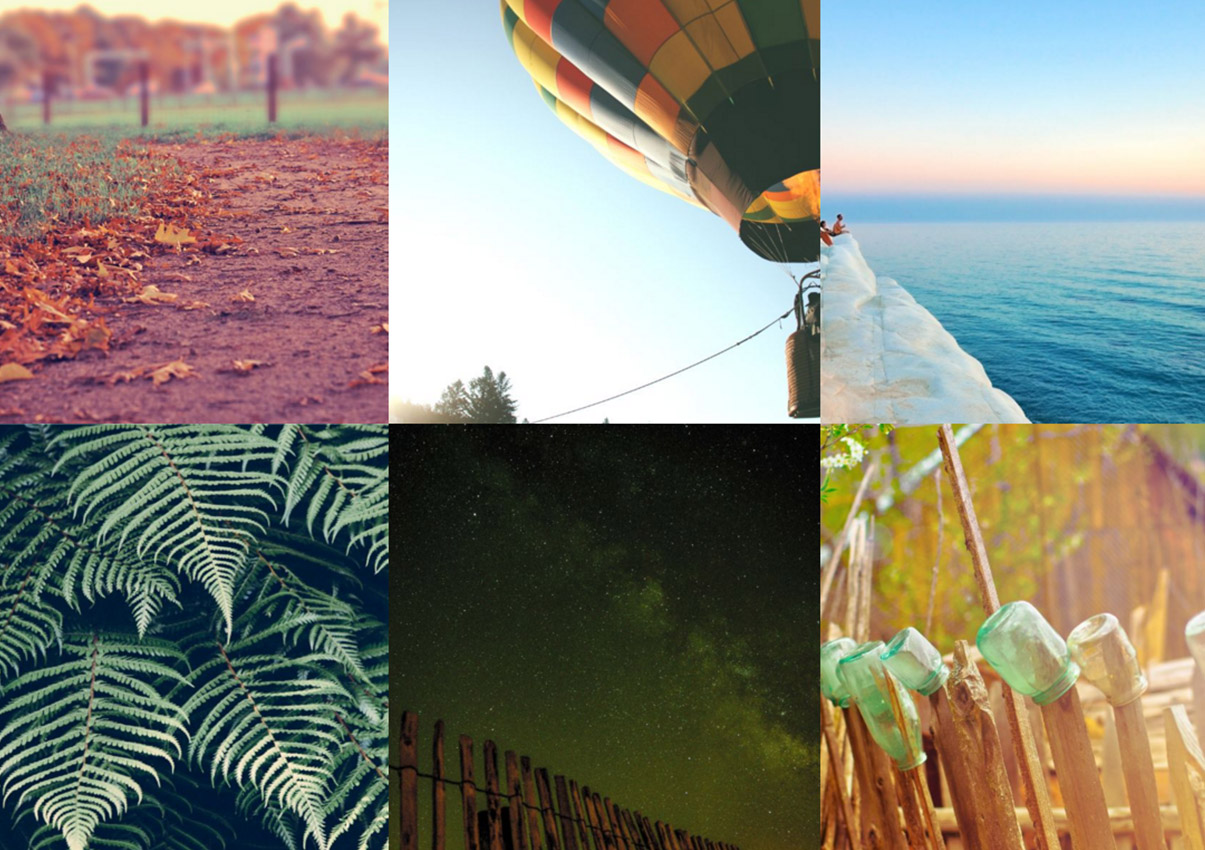
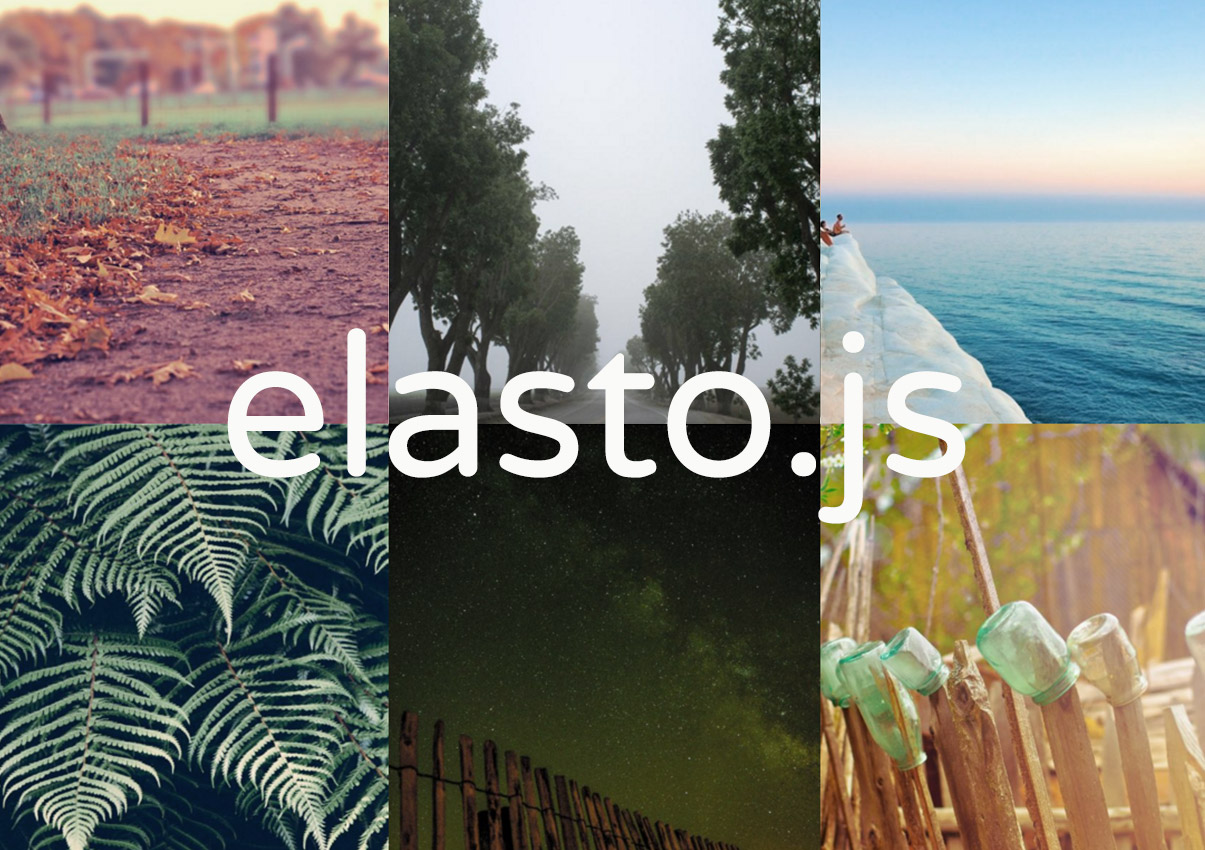
Added Game On to work. Changed grid layout to only include squares.

Changed region(s): [[0.1842, 0.0, 0.7983, 0.6424]]

diff --git a/css/main.min.css b/css/main.min.css
@@ -1,5 +1,5 @@
 h1,h2,h3,h4,h5,h6{font-weight:normal}a{color:inherit;text-decoration:none;font-weight:bold;cursor:pointer}a:hover,a:focus{text-decoration:underline}.animate{-webkit-animation-duration:1s;animation-duration:1s;-webkit-animation-fill-mode:both;animation-fill-mode:both;opacity:0}@-webkit-keyframes fadeIn{from{opacity:0}to{opacity:1}}@keyframes fadeIn{from{opacity:0}to{opacity:1}}.fadeIn{-webkit-animation-name:fadeIn;animation-name:fadeIn}@-webkit-keyframes fadeInUp{from{opacity:0;-webkit-transform:translate3d(0, 50%, 0);transform:translate3d(0, 50%, 0)}to{opacity:1;-webkit-transform:none;transform:none}}@keyframes fadeInUp{from{opacity:0;-webkit-transform:translate3d(0, 50%, 0);transform:translate3d(0, 50%, 0)}to{opacity:1;-webkit-transform:none;transform:none}}.fadeInUp{-webkit-animation-name:fadeInUp;animation-name:fadeInUp}@-webkit-keyframes fadeInUpSmall{from{opacity:0;-webkit-transform:translate3d(0, 20%, 0);transform:translate3d(0, 20%, 0)}to{opacity:1;-webkit-transform:none;transform:none}}@keyframes fadeInUpSmall{from{opacity:0;-webkit-transform:translate3d(0, 20%, 0);transform:translate3d(0, 20%, 0)}to{opacity:1;-webkit-transform:none;transform:none}}.fadeInUpSmall{-webkit-animation-name:fadeInUpSmall;animation-name:fadeInUpSmall}@-webkit-keyframes backgroundFade{0%,
 	100%{background-position:0 50%}50%{background-position:100% 50%}}@-moz-keyframes backgroundFade{0%,
 	100%{background-position:0 50%}50%{background-position:100% 50%}}@keyframes backgroundFade{0%,
-	100%{background-position:0 50%}50%{background-position:100% 50%}}@-webkit-keyframes rotateplane{0%{-webkit-transform:perspective(120px)}50%{-webkit-transform:perspective(120px) rotateY(180deg)}100%{-webkit-transform:perspective(120px) rotateY(180deg) rotateX(180deg)}}@keyframes rotateplane{0%{transform:perspective(120px) rotateX(0deg) rotateY(0deg);-webkit-transform:perspective(120px) rotateX(0deg) rotateY(0deg)}50%{transform:perspective(120px) rotateX(-180.1deg) rotateY(0deg);-webkit-transform:perspective(120px) rotateX(-180.1deg) rotateY(0deg)}100%{transform:perspective(120px) rotateX(-180deg) rotateY(-179.9deg);-webkit-transform:perspective(120px) rotateX(-180deg) rotateY(-179.9deg)}}.grid:after{content:'';display:block;clear:both}.grid-sizer,.grid-item{width:33.333%}@media screen and (max-width: 629px){.grid-sizer,.grid-item{width:100%}}@media screen and (min-width: 630px) and (max-width: 1129px){.grid-sizer,.grid-item{width:50%}}.grid-item{float:left}.grid-item img{display:block;width:100%}.grid-item .grid-item-content{opacity:0}.grid-item .grid-item-content .overlay{z-index:10;position:absolute;bottom:0;width:100%;height:100%;margin:0;padding:0;background-color:rgba(39,39,39,0.9);color:#fff;-webkit-font-smoothing:antialiased;opacity:0;-webkit-transition:opacity 0.25s ease-out;-moz-transition:opacity 0.25s ease-out;-ms-transition:opacity 0.25s ease-out;-o-transition:opacity 0.25s ease-out;transition:opacity 0.25s ease-out}.grid-item .grid-item-content .overlay .title{position:relative;top:calc(50% - 45px);text-align:center;font-size:18px}.grid-item .grid-item-content .overlay .title:after{content:'';position:absolute;left:0;right:0;bottom:-25px;margin:0 auto;height:2px;width:1%;background-color:#fff;-webkit-transition:width 0.3s ease-out;-moz-transition:width 0.3s ease-out;-ms-transition:width 0.3s ease-out;-o-transition:width 0.3s ease-out;transition:width 0.3s ease-out}.grid-item .grid-item-content .overlay .description{position:relative;top:50%;text-align:center;font-size:14.04px}.grid-item:hover{cursor:pointer}.grid-item:hover .overlay{opacity:1}.grid-item:hover .overlay .title:after{width:50%}.grid-item.big{width:66.666%}@media screen and (max-width: 629px){.grid-item.big{width:100%}}@media screen and (min-width: 630px) and (max-width: 1129px){.grid-item.big{width:50%}}.grid-item.red .overlay{background-color:rgba(174,68,66,0.9)}.grid-item.purple .overlay{background-color:rgba(118,58,82,0.9)}.grid-item.blue .overlay{background-color:rgba(93,131,134,0.9)}/*! normalize-scss | MIT/GPLv2 License | bit.ly/normalize-scss */html{font-size:112.5%;line-height:1.22222em;font-family:"Varela Round",sans-serif;-ms-text-size-adjust:100%;-webkit-text-size-adjust:100%}body{margin:0}article,aside,details,figcaption,figure,footer,header,hgroup,main,menu,nav,section,summary{display:block}audio,canvas,progress,video{display:inline-block;*display:inline;*zoom:1;vertical-align:baseline}audio:not([controls]){display:none;height:0}[hidden]{display:none}template{display:none}a{background-color:transparent}a:active,a:hover{outline:0}abbr[title]{border-bottom:1px dotted}b,strong{font-weight:bold}dfn{font-style:italic}h1{font-size:3em;line-height:1.22222em;margin:.40741em 0}h2{font-size:2em;line-height:1.22222em;margin:.61111em 0}h3{font-size:1.33em;line-height:1.83793em;margin:.91896em 0}h4{font-size:1em;line-height:1.22222em;margin:1.22222em 0}h5{font-size:.78em;line-height:1.56695em;margin:1.56695em 0}h6{font-size:.67em;line-height:1.82421em;margin:1.82421em 0}mark{background:#ff0;color:#000}small{font-size:80%}sub,sup{font-size:75%;line-height:0;position:relative;vertical-align:baseline}sup{top:-0.5em}sub{bottom:-0.25em}img{border:0;-ms-interpolation-mode:bicubic}svg:not(:root){overflow:hidden}dl,menu,ol,ul{margin:1.22222em 0}ol ol,ol ul,ul ol,ul ul{margin:0}dd{margin:0 0 0 20px}menu,ol,ul{padding:0 0 0 20px}nav ul,nav ol{list-style:none;list-style-image:none}blockquote{margin:1.22222em 20px}figure{margin:1.22222em 20px}hr{-moz-box-sizing:content-box;box-sizing:content-box;height:0}p,pre{margin:1.22222em 0}pre{overflow:auto}code,kbd,pre,samp{font-family:monospace, monospace;_font-family:'courier new', monospace;font-size:1em}form{margin:0}button,input,optgroup,select,textarea{color:inherit;font:inherit;margin:0;*font-family:"Varela Round",sans-serif;*vertical-align:middle}button{overflow:visible}button,select{text-transform:none}button,html input[type="button"],input[type="reset"],input[type="submit"]{-webkit-appearance:button;cursor:pointer;*overflow:visible}button[disabled],html input[disabled]{cursor:default}button::-moz-focus-inner,input::-moz-focus-inner{border:0;padding:0}input{line-height:normal}input[type="checkbox"],input[type="radio"]{box-sizing:border-box;padding:0;*height:13px;*width:13px}input[type="number"]::-webkit-inner-spin-button,input[type="number"]::-webkit-outer-spin-button{height:auto}input[type="search"]{-webkit-appearance:textfield;-webkit-box-sizing:content-box;box-sizing:content-box}input[type="search"]::-webkit-search-cancel-button,input[type="search"]::-webkit-search-decoration{-webkit-appearance:none}fieldset{border:1px solid #c0c0c0;margin:0 2px;padding:0.35em 0.625em 0.75em}legend{border:0;padding:0;*margin-left:-7px}textarea{overflow:auto}optgroup{font-weight:bold}table{border-collapse:collapse;border-spacing:0}td,th{padding:0}body{color:#fff;-webkit-font-smoothing:antialiased;background-image:linear-gradient(115deg, #f99e54, #f26966, #dd5c58);background-size:200% 100%}body.show-modal{height:100%;overflow:hidden}.wrap{z-index:2;position:relative;margin-left:auto;margin-right:auto;max-width:1500px;width:calc(100% - 80px);padding:0 40px}@media screen and (max-width: 629px){.wrap{width:calc(100% - 40px);padding:0 20px}}.wrap.small{max-width:1100px}.wrap.full-width{max-width:100%;width:100%;padding:0}.flex{display:-webkit-box;display:-moz-box;display:-ms-flexbox;display:-webkit-flex;display:flex;-webkit-flex-direction:row;-moz-flex-direction:row;flex-direction:row;flex-wrap:wrap;-webkit-flex-wrap:wrap;-moz-flex-wrap:wrap;justify-content:space-around}.flex .flex-item{-webkit-flex:1 1 auto;-ms-flex:1 1 auto;flex:1 1 auto}.button{margin-right:5px;margin-bottom:10px;padding:10px;outline:0;border:2px solid #fff;background-color:transparent;color:#fff;font-size:14.04px;-webkit-font-smoothing:subpixel-antialiased;-webkit-transition:all 0.3s ease-out;-moz-transition:all 0.3s ease-out;-ms-transition:all 0.3s ease-out;-o-transition:all 0.3s ease-out;transition:all 0.3s ease-out}.button:hover{background-color:rgba(255,255,255,0.15)}.button.inactive{border-color:transparent}.text-bold{font-weight:bold}.text-center{text-align:center}#header{z-index:5;position:fixed;width:100%;padding:20px 0;font-size:14.04px;-webkit-font-smoothing:subpixel-antialiased;-webkit-transition:all 0.3s ease-in-out;-moz-transition:all 0.3s ease-in-out;-ms-transition:all 0.3s ease-in-out;-o-transition:all 0.3s ease-in-out;transition:all 0.3s ease-in-out}@media screen and (max-width: 629px){#header{background-color:rgba(255,255,255,0.9);color:#272727}}#header .logo{float:left}#header .logo a{text-decoration:none;font-weight:normal}#header .logo a .image{float:left;margin-top:-2px;margin-right:8px;height:24px;width:24px;background-image:url(../images/logo_white.png);background-repeat:no-repeat;background-size:100%;-webkit-transition:all 0.3s ease-out;-moz-transition:all 0.3s ease-out;-ms-transition:all 0.3s ease-out;-o-transition:all 0.3s ease-out;transition:all 0.3s ease-out}@media screen and (max-width: 629px){#header .logo a .image{background-image:url(../images/logo_black.png)}}@media screen and (max-width: 629px){#header .logo a .text{display:none}}#header .nav{float:right}#header .nav .nav-horizontal{padding:0;margin:0}@media screen and (max-width: 629px){#header .nav .nav-horizontal li:last-child{display:none}#header .nav .nav-horizontal li:nth-child(1) a.local:after{background-color:#dd6947}#header .nav .nav-horizontal li:nth-child(2) a.local:after{background-color:#ae4442}}#header .nav .nav-horizontal li{display:block;float:left;margin-left:20px}#header .nav .nav-horizontal li a.local{position:relative;text-decoration:none;font-weight:normal}#header .nav .nav-horizontal li a.local:after{content:'';position:absolute;left:0;right:0;bottom:-5px;margin:0 auto;height:2px;width:0%;background-color:#fff;-webkit-transition:width 0.15s ease-out;-moz-transition:width 0.15s ease-out;-ms-transition:width 0.15s ease-out;-o-transition:width 0.15s ease-out;transition:width 0.15s ease-out}#header .nav .nav-horizontal li a.local:hover:after{width:100%}#header .nav .nav-horizontal li a:not(.local) .image{float:left;margin-top:1px;margin-left:10px;height:18px;width:18px;background-repeat:no-repeat;background-size:100%;opacity:0.8;-webkit-transition:all 0.3s ease-out;-moz-transition:all 0.3s ease-out;-ms-transition:all 0.3s ease-out;-o-transition:all 0.3s ease-out;transition:all 0.3s ease-out}#header .nav .nav-horizontal li a:not(.local) .twitter{background-image:url(../images/social/36_twitter_white.png)}#header .nav .nav-horizontal li a:not(.local) .github{background-image:url(../images/social/36_github_white.png)}#header .nav .nav-horizontal li a:not(.local):hover .image{opacity:1}#header .nav .nav-horizontal li:first-child{margin-left:0}#header .square-grid{position:absolute;top:-3px;left:0;right:0;margin:0 auto;opacity:0;cursor:pointer;-webkit-transition:opacity 0.3s ease-out;-moz-transition:opacity 0.3s ease-out;-ms-transition:opacity 0.3s ease-out;-o-transition:opacity 0.3s ease-out;transition:opacity 0.3s ease-out}#header .square-grid .square{fill:#c9c9c9;transform:translate(0, 0);-webkit-transition:all 0.3s ease-out;-moz-transition:all 0.3s ease-out;-ms-transition:all 0.3s ease-out;-o-transition:all 0.3s ease-out;transition:all 0.3s ease-out}#header .square-grid:hover .square{fill:#272727}#header .square-grid:hover #tl{transform:translate(-3px, -3px)}#header .square-grid:hover #tm{transform:translateY(-3px)}#header .square-grid:hover #tr{transform:translate(3px, -3px)}#header .square-grid:hover #bl{transform:translate(-3px, 3px)}#header .square-grid:hover #bm{transform:translateY(3px)}#header .square-grid:hover #br{transform:translate(3px, 3px)}body.show-modal #header,#header.scroll{background-color:rgba(255,255,255,0.9);color:#696969}body.show-modal #header .logo .image,#header.scroll .logo .image{background-image:url(../images/logo_orange.png);-webkit-filter:grayscale(100%);-moz-filter:grayscale(100%);-ms-filter:grayscale(100%);-o-filter:grayscale(100%);filter:grayscale(100%);filter:url(grayscale.svg#greyscale);filter:gray}body.show-modal #header .logo:hover .image,#header.scroll .logo:hover .image{-webkit-filter:grayscale(0%);-moz-filter:grayscale(0%);-ms-filter:grayscale(0%);-o-filter:grayscale(0%);filter:grayscale(0%);filter:url(grayscale.svg#greyscale);filter:gray}body.show-modal #header .nav .nav-horizontal li:nth-child(1) a.local:after,#header.scroll .nav .nav-horizontal li:nth-child(1) a.local:after{background-color:#dd6947}body.show-modal #header .nav .nav-horizontal li:nth-child(2) a.local:after,#header.scroll .nav .nav-horizontal li:nth-child(2) a.local:after{background-color:#ae4442}body.show-modal #header .nav .nav-horizontal a:not(.local) .image,#header.scroll .nav .nav-horizontal a:not(.local) .image{-webkit-filter:grayscale(100%);-moz-filter:grayscale(100%);-ms-filter:grayscale(100%);-o-filter:grayscale(100%);filter:grayscale(100%);filter:url(grayscale.svg#greyscale);filter:gray}body.show-modal #header .nav .nav-horizontal a:not(.local) .twitter,#header.scroll .nav .nav-horizontal a:not(.local) .twitter{background-image:url(../images/social/36_twitter_blue.png);opacity:0.5}body.show-modal #header .nav .nav-horizontal a:not(.local) .github,#header.scroll .nav .nav-horizontal a:not(.local) .github{background-image:url(../images/social/36_github_purple.png);opacity:0.3}body.show-modal #header .nav .nav-horizontal a:not(.local):hover .image,#header.scroll .nav .nav-horizontal a:not(.local):hover .image{opacity:1;-webkit-filter:grayscale(0%);-moz-filter:grayscale(0%);-ms-filter:grayscale(0%);-o-filter:grayscale(0%);filter:grayscale(0%);filter:url(grayscale.svg#greyscale);filter:gray}body.show-modal #header .square-grid{opacity:1}body.red #header .square-grid:hover .square{fill:#ae4442}body.red #project a,body.red #project-{color:#ae4442 !important}body.purple #header .square-grid:hover .square{fill:#763a52}body.purple #project a,body.purple #project-{color:#763a52 !important}body.blue #header .square-grid:hover .square{fill:#5d8386}body.blue #project a,body.blue #project-{color:#5d8386 !important}#main{overflow:hidden}#main .section{position:relative}#intro{height:820px}#intro .text{position:absolute;top:200px;max-width:590px;padding-right:40px}#intro .text h3{margin:2em 0;line-height:1.3em}#intro .text .headline{display:block;font-size:52px;line-height:1.3em}@media screen and (max-width: 629px){#intro .text .headline{line-height:1.1em}}#intro .text .code{padding:10px 7px 9px 7px;background-color:#434343;color:#4ccb49;font-family:Consolas, Monaco, monospace}@media screen and (max-width: 629px){#intro .text .code{padding:5px 3px}}#intro .arrow{display:block;position:absolute;top:600px;left:0;right:0;margin:0 auto;width:32px;height:32px;background-image:url(../images/arrow_down_white.png);background-repeat:no-repeat;background-size:100%;background-position:center center;opacity:0.7;-webkit-transition:opacity 0.3s ease-out;-moz-transition:opacity 0.3s ease-out;-ms-transition:opacity 0.3s ease-out;-o-transition:opacity 0.3s ease-out;transition:opacity 0.3s ease-out}#intro .arrow:hover{opacity:1}#intro .arrow.scroll{opacity:0 !important}#intro .particles-js-canvas-el{position:absolute;top:0}#work{top:-100px}#work .content{text-align:center;min-height:400px}#work .content .categories{margin:40px 0 60px 0}#work .content .spinner{position:absolute;left:0;right:0;top:50px;margin:0 auto;width:40px;height:40px;background-color:#fff;-webkit-animation:rotateplane 1.2s infinite ease-in-out;animation:rotateplane 1.2s infinite ease-in-out;-webkit-transition:opacity 0.3s ease-out;-moz-transition:opacity 0.3s ease-out;-ms-transition:opacity 0.3s ease-out;-o-transition:opacity 0.3s ease-out;transition:opacity 0.3s ease-out}#work .content .spinner.hidden{opacity:0}#about{top:-100px}#about .content h1{margin:80px 0 60px 0;width:calc(55% - 50px);text-align:center}@media screen and (max-width: 629px){#about .content h1,#about .content .flex-item{width:100% !important;padding:0 !important}}#about .content .flex-item:nth-child(1){width:calc(55% - 50px);padding-right:50px}#about .content .flex-item:nth-child(2){width:calc(45% - 50px);padding-left:50px}#about .content .flex-item:nth-child(2) a{font-weight:normal}#about .content .flex-item:nth-child(2) a .image{float:left;margin-right:10px;height:37px;width:32px;background-repeat:no-repeat;background-position:0 5px;background-size:32px;opacity:0.9;-webkit-transition:all 0.15s ease-out;-moz-transition:all 0.15s ease-out;-ms-transition:all 0.15s ease-out;-o-transition:all 0.15s ease-out;transition:all 0.15s ease-out}#about .content .flex-item:nth-child(2) a .github{background-image:url(../images/social/64_github_white.png);margin-right:15px}#about .content .flex-item:nth-child(2) a .twitter{background-image:url(../images/social/64_twitter_white.png);margin-right:15px}#about .content .flex-item:nth-child(2) a .linkedin{background-image:url(../images/social/64_linkedin_white.png)}#about .content .flex-item:nth-child(2) a .facebook{background-image:url(../images/social/64_facebook_white.png)}#about .content .flex-item:nth-child(2) a .instagram{background-image:url(../images/social/64_instagram_white.png)}#about .content .flex-item:nth-child(2) a:hover .image{background-position:0 0;opacity:1}#about .content .photo{float:left;margin:20px;margin-left:0;width:170px;border-radius:50%;border:2px solid #fff;background-color:#fff;-webkit-shape-outside:circle();shape-outside:circle()}@media screen and (max-width: 629px){#about .content .photo{display:block;float:none;margin:0 auto 40px auto}}#project{display:none;position:fixed;top:0;height:100%;width:100%;z-index:4;overflow-y:auto;-webkit-overflow-scrolling:touch;background-color:#f5f5f5}#project .full-width{background-color:#c9c9c9}#project .content{margin:60px auto 0 auto;color:#363636}#project .content .carousel{position:relative;height:500px}@media screen and (max-width: 629px){#project .content .carousel{height:400px}}#project .content .carousel .image{position:absolute;top:0;width:100%;height:100%;background-repeat:no-repeat;background-size:cover;background-position:center center;opacity:0;-webkit-transition:opacity 0.6s ease-in-out;-moz-transition:opacity 0.6s ease-in-out;-ms-transition:opacity 0.6s ease-in-out;-o-transition:opacity 0.6s ease-in-out;transition:opacity 0.6s ease-in-out}@media screen and (max-width: 629px){#project .content .carousel .image{height:400px}}#project .content .carousel .image.active{opacity:1}#project .content .carousel .nav{position:absolute;bottom:20px;left:0;right:0;margin:0 auto;padding:0;text-align:center}#project .content .carousel .nav li{display:inline-block;margin:0 2px;list-style:none;color:#fff;cursor:pointer;opacity:0.8}#project .content .carousel .nav li:after{content:'';display:block;height:9px;width:9px;border:1px solid #fff}#project .content .carousel .nav li.active:after{background-color:#fff}#project .content .flex-item{padding-top:40px}@media screen and (max-width: 629px){#project .content .flex-item{width:100% !important}}#project .content .flex-item:nth-child(1){width:calc(30% - 50px);padding-right:50px}@media screen and (max-width: 629px){#project .content .flex-item:nth-child(1){padding:0}}@media screen and (max-width: 629px){#project .content .flex-item:nth-child(1) #project-title{margin-top:40px}}#project .content .flex-item:nth-child(1) #project-info{padding:0}#project .content .flex-item:nth-child(1) #project-info li{list-style:none;font-size:14.04px;color:#696969}#project .content .flex-item:nth-child(1) #project-info li .info{color:#363636}#project .content .flex-item:nth-child(1) #project-info li .info a{font-weight:normal}#project .content .flex-item:nth-child(2){width:calc(70% - 50px);padding-left:50px;padding-bottom:40px}@media screen and (max-width: 629px){#project .content .flex-item:nth-child(2){padding:0;padding-bottom:20px}}@media screen and (max-width: 629px){#project .content .flex-item:nth-child(2) #project-description{margin-top:10px}}#project .content .flex-item:nth-child(2) #project-description a{font-weight:normal}#project .content #project-images{padding:60px 0}@media screen and (max-width: 629px){#project .content #project-images{padding:40px 0}}#project .content #project-images img{display:block;margin-bottom:60px;width:100%;opacity:0;-webkit-box-shadow:0px 5px 15px 0px rgba(0,0,0,0.3);-moz-box-shadow:0px 5px 15px 0px rgba(0,0,0,0.3);box-shadow:0px 5px 15px 0px rgba(0,0,0,0.3)}@media screen and (max-width: 629px){#project .content #project-images img{margin-bottom:40px}}#project .content #project-images img:last-child{margin-bottom:0}#footer{height:60px;background-color:#272727}#footer .content{padding-top:20px;color:#696969;font-size:14.04px;text-align:center}
+	100%{background-position:0 50%}50%{background-position:100% 50%}}@-webkit-keyframes rotateplane{0%{-webkit-transform:perspective(120px)}50%{-webkit-transform:perspective(120px) rotateY(180deg)}100%{-webkit-transform:perspective(120px) rotateY(180deg) rotateX(180deg)}}@keyframes rotateplane{0%{transform:perspective(120px) rotateX(0deg) rotateY(0deg);-webkit-transform:perspective(120px) rotateX(0deg) rotateY(0deg)}50%{transform:perspective(120px) rotateX(-180.1deg) rotateY(0deg);-webkit-transform:perspective(120px) rotateX(-180.1deg) rotateY(0deg)}100%{transform:perspective(120px) rotateX(-180deg) rotateY(-179.9deg);-webkit-transform:perspective(120px) rotateX(-180deg) rotateY(-179.9deg)}}.grid:after{content:'';display:block;clear:both}.grid-sizer,.grid-item{width:25%}@media screen and (max-width: 629px){.grid-sizer,.grid-item{width:100%}}@media screen and (min-width: 630px) and (max-width: 1129px){.grid-sizer,.grid-item{width:50%}}.grid-item{float:left}.grid-item img{display:block;width:100%}.grid-item .grid-item-content{opacity:0}.grid-item .grid-item-content .overlay{z-index:10;position:absolute;bottom:0;width:100%;height:100%;margin:0;padding:0;background-color:rgba(39,39,39,0.9);color:#fff;-webkit-font-smoothing:antialiased;opacity:0;-webkit-transition:opacity 0.25s ease-out;-moz-transition:opacity 0.25s ease-out;-ms-transition:opacity 0.25s ease-out;-o-transition:opacity 0.25s ease-out;transition:opacity 0.25s ease-out}.grid-item .grid-item-content .overlay .title{position:relative;top:calc(50% - 45px);text-align:center;font-size:18px}.grid-item .grid-item-content .overlay .title:after{content:'';position:absolute;left:0;right:0;bottom:-25px;margin:0 auto;height:2px;width:1%;background-color:#fff;-webkit-transition:width 0.3s ease-out;-moz-transition:width 0.3s ease-out;-ms-transition:width 0.3s ease-out;-o-transition:width 0.3s ease-out;transition:width 0.3s ease-out}.grid-item .grid-item-content .overlay .description{position:relative;top:50%;text-align:center;font-size:14.04px}.grid-item:hover{cursor:pointer}.grid-item:hover .overlay{opacity:1}.grid-item:hover .overlay .title:after{width:50%}.grid-item.big{width:50%}@media screen and (max-width: 629px){.grid-item.big{width:100%}}.grid-item.red .overlay{background-color:rgba(174,68,66,0.9)}.grid-item.purple .overlay{background-color:rgba(118,58,82,0.9)}.grid-item.blue .overlay{background-color:rgba(93,131,134,0.9)}/*! normalize-scss | MIT/GPLv2 License | bit.ly/normalize-scss */html{font-size:112.5%;line-height:1.22222em;font-family:"Varela Round",sans-serif;-ms-text-size-adjust:100%;-webkit-text-size-adjust:100%}body{margin:0}article,aside,details,figcaption,figure,footer,header,hgroup,main,menu,nav,section,summary{display:block}audio,canvas,progress,video{display:inline-block;*display:inline;*zoom:1;vertical-align:baseline}audio:not([controls]){display:none;height:0}[hidden]{display:none}template{display:none}a{background-color:transparent}a:active,a:hover{outline:0}abbr[title]{border-bottom:1px dotted}b,strong{font-weight:bold}dfn{font-style:italic}h1{font-size:3em;line-height:1.22222em;margin:.40741em 0}h2{font-size:2em;line-height:1.22222em;margin:.61111em 0}h3{font-size:1.33em;line-height:1.83793em;margin:.91896em 0}h4{font-size:1em;line-height:1.22222em;margin:1.22222em 0}h5{font-size:.78em;line-height:1.56695em;margin:1.56695em 0}h6{font-size:.67em;line-height:1.82421em;margin:1.82421em 0}mark{background:#ff0;color:#000}small{font-size:80%}sub,sup{font-size:75%;line-height:0;position:relative;vertical-align:baseline}sup{top:-0.5em}sub{bottom:-0.25em}img{border:0;-ms-interpolation-mode:bicubic}svg:not(:root){overflow:hidden}dl,menu,ol,ul{margin:1.22222em 0}ol ol,ol ul,ul ol,ul ul{margin:0}dd{margin:0 0 0 20px}menu,ol,ul{padding:0 0 0 20px}nav ul,nav ol{list-style:none;list-style-image:none}blockquote{margin:1.22222em 20px}figure{margin:1.22222em 20px}hr{-moz-box-sizing:content-box;box-sizing:content-box;height:0}p,pre{margin:1.22222em 0}pre{overflow:auto}code,kbd,pre,samp{font-family:monospace, monospace;_font-family:'courier new', monospace;font-size:1em}form{margin:0}button,input,optgroup,select,textarea{color:inherit;font:inherit;margin:0;*font-family:"Varela Round",sans-serif;*vertical-align:middle}button{overflow:visible}button,select{text-transform:none}button,html input[type="button"],input[type="reset"],input[type="submit"]{-webkit-appearance:button;cursor:pointer;*overflow:visible}button[disabled],html input[disabled]{cursor:default}button::-moz-focus-inner,input::-moz-focus-inner{border:0;padding:0}input{line-height:normal}input[type="checkbox"],input[type="radio"]{box-sizing:border-box;padding:0;*height:13px;*width:13px}input[type="number"]::-webkit-inner-spin-button,input[type="number"]::-webkit-outer-spin-button{height:auto}input[type="search"]{-webkit-appearance:textfield;-webkit-box-sizing:content-box;box-sizing:content-box}input[type="search"]::-webkit-search-cancel-button,input[type="search"]::-webkit-search-decoration{-webkit-appearance:none}fieldset{border:1px solid #c0c0c0;margin:0 2px;padding:0.35em 0.625em 0.75em}legend{border:0;padding:0;*margin-left:-7px}textarea{overflow:auto}optgroup{font-weight:bold}table{border-collapse:collapse;border-spacing:0}td,th{padding:0}body{color:#fff;-webkit-font-smoothing:antialiased;background-image:linear-gradient(115deg, #f99e54, #f26966, #dd5c58);background-size:200% 100%}body.show-modal{height:100%;overflow:hidden}.wrap{z-index:2;position:relative;margin-left:auto;margin-right:auto;max-width:1500px;width:calc(100% - 80px);padding:0 40px}@media screen and (max-width: 629px){.wrap{width:calc(100% - 40px);padding:0 20px}}.wrap.small{max-width:1100px}.wrap.full-width{max-width:100%;width:100%;padding:0}.flex{display:-webkit-box;display:-moz-box;display:-ms-flexbox;display:-webkit-flex;display:flex;-webkit-flex-direction:row;-moz-flex-direction:row;flex-direction:row;flex-wrap:wrap;-webkit-flex-wrap:wrap;-moz-flex-wrap:wrap;justify-content:space-around}.flex .flex-item{-webkit-flex:1 1 auto;-ms-flex:1 1 auto;flex:1 1 auto}.button{margin-right:5px;margin-bottom:10px;padding:10px;outline:0;border:2px solid #fff;background-color:transparent;color:#fff;font-size:14.04px;-webkit-font-smoothing:subpixel-antialiased;-webkit-transition:all 0.3s ease-out;-moz-transition:all 0.3s ease-out;-ms-transition:all 0.3s ease-out;-o-transition:all 0.3s ease-out;transition:all 0.3s ease-out}.button:hover{background-color:rgba(255,255,255,0.15)}.button.inactive{border-color:transparent}.text-bold{font-weight:bold}.text-center{text-align:center}#header{z-index:5;position:fixed;width:100%;padding:20px 0;font-size:14.04px;-webkit-font-smoothing:subpixel-antialiased;-webkit-transition:all 0.3s ease-in-out;-moz-transition:all 0.3s ease-in-out;-ms-transition:all 0.3s ease-in-out;-o-transition:all 0.3s ease-in-out;transition:all 0.3s ease-in-out}@media screen and (max-width: 629px){#header{background-color:rgba(255,255,255,0.9);color:#272727}}#header .logo{float:left}#header .logo a{text-decoration:none;font-weight:normal}#header .logo a .image{float:left;margin-top:-2px;margin-right:8px;height:24px;width:24px;background-image:url(../images/logo_white.png);background-repeat:no-repeat;background-size:100%;-webkit-transition:all 0.3s ease-out;-moz-transition:all 0.3s ease-out;-ms-transition:all 0.3s ease-out;-o-transition:all 0.3s ease-out;transition:all 0.3s ease-out}@media screen and (max-width: 629px){#header .logo a .image{background-image:url(../images/logo_black.png)}}@media screen and (max-width: 629px){#header .logo a .text{display:none}}#header .nav{float:right}#header .nav .nav-horizontal{padding:0;margin:0}@media screen and (max-width: 629px){#header .nav .nav-horizontal li:last-child{display:none}#header .nav .nav-horizontal li:nth-child(1) a.local:after{background-color:#dd6947}#header .nav .nav-horizontal li:nth-child(2) a.local:after{background-color:#ae4442}}#header .nav .nav-horizontal li{display:block;float:left;margin-left:20px}#header .nav .nav-horizontal li a.local{position:relative;text-decoration:none;font-weight:normal}#header .nav .nav-horizontal li a.local:after{content:'';position:absolute;left:0;right:0;bottom:-5px;margin:0 auto;height:2px;width:0%;background-color:#fff;-webkit-transition:width 0.15s ease-out;-moz-transition:width 0.15s ease-out;-ms-transition:width 0.15s ease-out;-o-transition:width 0.15s ease-out;transition:width 0.15s ease-out}#header .nav .nav-horizontal li a.local:hover:after{width:100%}#header .nav .nav-horizontal li a:not(.local) .image{float:left;margin-top:1px;margin-left:10px;height:18px;width:18px;background-repeat:no-repeat;background-size:100%;opacity:0.8;-webkit-transition:all 0.3s ease-out;-moz-transition:all 0.3s ease-out;-ms-transition:all 0.3s ease-out;-o-transition:all 0.3s ease-out;transition:all 0.3s ease-out}#header .nav .nav-horizontal li a:not(.local) .twitter{background-image:url(../images/social/36_twitter_white.png)}#header .nav .nav-horizontal li a:not(.local) .github{background-image:url(../images/social/36_github_white.png)}#header .nav .nav-horizontal li a:not(.local):hover .image{opacity:1}#header .nav .nav-horizontal li:first-child{margin-left:0}#header .square-grid{position:absolute;top:-3px;left:0;right:0;margin:0 auto;opacity:0;cursor:pointer;-webkit-transition:opacity 0.3s ease-out;-moz-transition:opacity 0.3s ease-out;-ms-transition:opacity 0.3s ease-out;-o-transition:opacity 0.3s ease-out;transition:opacity 0.3s ease-out}#header .square-grid .square{fill:#c9c9c9;transform:translate(0, 0);-webkit-transition:all 0.3s ease-out;-moz-transition:all 0.3s ease-out;-ms-transition:all 0.3s ease-out;-o-transition:all 0.3s ease-out;transition:all 0.3s ease-out}#header .square-grid:hover .square{fill:#272727}#header .square-grid:hover #tl{transform:translate(-3px, -3px)}#header .square-grid:hover #tm{transform:translateY(-3px)}#header .square-grid:hover #tr{transform:translate(3px, -3px)}#header .square-grid:hover #bl{transform:translate(-3px, 3px)}#header .square-grid:hover #bm{transform:translateY(3px)}#header .square-grid:hover #br{transform:translate(3px, 3px)}body.show-modal #header,#header.scroll{background-color:rgba(255,255,255,0.9);color:#696969}body.show-modal #header .logo .image,#header.scroll .logo .image{background-image:url(../images/logo_orange.png);-webkit-filter:grayscale(100%);-moz-filter:grayscale(100%);-ms-filter:grayscale(100%);-o-filter:grayscale(100%);filter:grayscale(100%);filter:url(grayscale.svg#greyscale);filter:gray}body.show-modal #header .logo:hover .image,#header.scroll .logo:hover .image{-webkit-filter:grayscale(0%);-moz-filter:grayscale(0%);-ms-filter:grayscale(0%);-o-filter:grayscale(0%);filter:grayscale(0%);filter:url(grayscale.svg#greyscale);filter:gray}body.show-modal #header .nav .nav-horizontal li:nth-child(1) a.local:after,#header.scroll .nav .nav-horizontal li:nth-child(1) a.local:after{background-color:#dd6947}body.show-modal #header .nav .nav-horizontal li:nth-child(2) a.local:after,#header.scroll .nav .nav-horizontal li:nth-child(2) a.local:after{background-color:#ae4442}body.show-modal #header .nav .nav-horizontal a:not(.local) .image,#header.scroll .nav .nav-horizontal a:not(.local) .image{-webkit-filter:grayscale(100%);-moz-filter:grayscale(100%);-ms-filter:grayscale(100%);-o-filter:grayscale(100%);filter:grayscale(100%);filter:url(grayscale.svg#greyscale);filter:gray}body.show-modal #header .nav .nav-horizontal a:not(.local) .twitter,#header.scroll .nav .nav-horizontal a:not(.local) .twitter{background-image:url(../images/social/36_twitter_blue.png);opacity:0.5}body.show-modal #header .nav .nav-horizontal a:not(.local) .github,#header.scroll .nav .nav-horizontal a:not(.local) .github{background-image:url(../images/social/36_github_purple.png);opacity:0.3}body.show-modal #header .nav .nav-horizontal a:not(.local):hover .image,#header.scroll .nav .nav-horizontal a:not(.local):hover .image{opacity:1;-webkit-filter:grayscale(0%);-moz-filter:grayscale(0%);-ms-filter:grayscale(0%);-o-filter:grayscale(0%);filter:grayscale(0%);filter:url(grayscale.svg#greyscale);filter:gray}body.show-modal #header .square-grid{opacity:1}body.red #header .square-grid:hover .square{fill:#ae4442}body.red #project a,body.red #project-{color:#ae4442 !important}body.purple #header .square-grid:hover .square{fill:#763a52}body.purple #project a,body.purple #project-{color:#763a52 !important}body.blue #header .square-grid:hover .square{fill:#5d8386}body.blue #project a,body.blue #project-{color:#5d8386 !important}#main{overflow:hidden}#main .section{position:relative}#intro{height:820px}#intro .text{position:absolute;top:200px;max-width:590px;padding-right:40px}#intro .text h3{margin:2em 0;line-height:1.3em}#intro .text .headline{display:block;font-size:52px;line-height:1.3em}@media screen and (max-width: 629px){#intro .text .headline{line-height:1.1em}}#intro .text .code{padding:10px 7px 9px 7px;background-color:#434343;color:#4ccb49;font-family:Consolas, Monaco, monospace}@media screen and (max-width: 629px){#intro .text .code{padding:5px 3px}}#intro .arrow{display:block;position:absolute;top:600px;left:0;right:0;margin:0 auto;width:32px;height:32px;background-image:url(../images/arrow_down_white.png);background-repeat:no-repeat;background-size:100%;background-position:center center;opacity:0.7;-webkit-transition:opacity 0.3s ease-out;-moz-transition:opacity 0.3s ease-out;-ms-transition:opacity 0.3s ease-out;-o-transition:opacity 0.3s ease-out;transition:opacity 0.3s ease-out}#intro .arrow:hover{opacity:1}#intro .arrow.scroll{opacity:0 !important}#intro .particles-js-canvas-el{position:absolute;top:0}#work{top:-100px}#work .content{text-align:center;min-height:400px}#work .content .categories{margin:40px 0 60px 0}#work .content .spinner{position:absolute;left:0;right:0;top:50px;margin:0 auto;width:40px;height:40px;background-color:#fff;-webkit-animation:rotateplane 1.2s infinite ease-in-out;animation:rotateplane 1.2s infinite ease-in-out;-webkit-transition:opacity 0.3s ease-out;-moz-transition:opacity 0.3s ease-out;-ms-transition:opacity 0.3s ease-out;-o-transition:opacity 0.3s ease-out;transition:opacity 0.3s ease-out}#work .content .spinner.hidden{opacity:0}#about{top:-100px}#about .content h1{margin:80px 0 60px 0;width:calc(55% - 50px);text-align:center}@media screen and (max-width: 629px){#about .content h1,#about .content .flex-item{width:100% !important;padding:0 !important}}#about .content .flex-item:nth-child(1){width:calc(55% - 50px);padding-right:50px}#about .content .flex-item:nth-child(2){width:calc(45% - 50px);padding-left:50px}#about .content .flex-item:nth-child(2) a{font-weight:normal}#about .content .flex-item:nth-child(2) a .image{float:left;margin-right:10px;height:37px;width:32px;background-repeat:no-repeat;background-position:0 5px;background-size:32px;opacity:0.9;-webkit-transition:all 0.15s ease-out;-moz-transition:all 0.15s ease-out;-ms-transition:all 0.15s ease-out;-o-transition:all 0.15s ease-out;transition:all 0.15s ease-out}#about .content .flex-item:nth-child(2) a .github{background-image:url(../images/social/64_github_white.png);margin-right:15px}#about .content .flex-item:nth-child(2) a .twitter{background-image:url(../images/social/64_twitter_white.png);margin-right:15px}#about .content .flex-item:nth-child(2) a .linkedin{background-image:url(../images/social/64_linkedin_white.png)}#about .content .flex-item:nth-child(2) a .facebook{background-image:url(../images/social/64_facebook_white.png)}#about .content .flex-item:nth-child(2) a .instagram{background-image:url(../images/social/64_instagram_white.png)}#about .content .flex-item:nth-child(2) a:hover .image{background-position:0 0;opacity:1}#about .content .photo{float:left;margin:20px;margin-left:0;width:170px;border-radius:50%;border:2px solid #fff;background-color:#fff;-webkit-shape-outside:circle();shape-outside:circle()}@media screen and (max-width: 629px){#about .content .photo{display:block;float:none;margin:0 auto 40px auto}}#project{display:none;position:fixed;top:0;height:100%;width:100%;z-index:4;overflow-y:auto;-webkit-overflow-scrolling:touch;background-color:#f5f5f5}#project .full-width{background-color:#c9c9c9}#project .content{margin:60px auto 0 auto;color:#363636}#project .content .carousel{position:relative;height:500px}@media screen and (max-width: 629px){#project .content .carousel{height:400px}}#project .content .carousel .image{position:absolute;top:0;width:100%;height:100%;background-repeat:no-repeat;background-size:cover;background-position:center center;opacity:0;-webkit-transition:opacity 0.6s ease-in-out;-moz-transition:opacity 0.6s ease-in-out;-ms-transition:opacity 0.6s ease-in-out;-o-transition:opacity 0.6s ease-in-out;transition:opacity 0.6s ease-in-out}@media screen and (max-width: 629px){#project .content .carousel .image{height:400px}}#project .content .carousel .image.active{opacity:1}#project .content .carousel .nav{position:absolute;bottom:20px;left:0;right:0;margin:0 auto;padding:0;text-align:center}#project .content .carousel .nav li{display:inline-block;margin:0 2px;list-style:none;color:#fff;cursor:pointer;opacity:0.8}#project .content .carousel .nav li:after{content:'';display:block;height:9px;width:9px;border:1px solid #fff}#project .content .carousel .nav li.active:after{background-color:#fff}#project .content .flex-item{padding-top:40px}@media screen and (max-width: 629px){#project .content .flex-item{width:100% !important}}#project .content .flex-item:nth-child(1){width:calc(30% - 50px);padding-right:50px}@media screen and (max-width: 629px){#project .content .flex-item:nth-child(1){padding:0}}@media screen and (max-width: 629px){#project .content .flex-item:nth-child(1) #project-title{margin-top:40px}}#project .content .flex-item:nth-child(1) #project-info{padding:0}#project .content .flex-item:nth-child(1) #project-info li{list-style:none;font-size:14.04px;color:#696969}#project .content .flex-item:nth-child(1) #project-info li .info{color:#363636}#project .content .flex-item:nth-child(1) #project-info li .info a{font-weight:normal}#project .content .flex-item:nth-child(2){width:calc(70% - 50px);padding-left:50px;padding-bottom:40px}@media screen and (max-width: 629px){#project .content .flex-item:nth-child(2){padding:0;padding-bottom:20px}}@media screen and (max-width: 629px){#project .content .flex-item:nth-child(2) #project-description{margin-top:10px}}#project .content .flex-item:nth-child(2) #project-description a{font-weight:normal}#project .content #project-images{padding:60px 0}@media screen and (max-width: 629px){#project .content #project-images{padding:40px 0}}#project .content #project-images img{display:block;margin-bottom:60px;width:100%;opacity:0;-webkit-box-shadow:0px 5px 15px 0px rgba(0,0,0,0.3);-moz-box-shadow:0px 5px 15px 0px rgba(0,0,0,0.3);box-shadow:0px 5px 15px 0px rgba(0,0,0,0.3)}@media screen and (max-width: 629px){#project .content #project-images img{margin-bottom:40px}}#project .content #project-images img:last-child{margin-bottom:0}#project .content #project-images.no-shadow img{-webkit-box-shadow:none;-moz-box-shadow:none;box-shadow:none}#footer{height:60px;background-color:#272727}#footer .content{padding-top:20px;color:#696969;font-size:14.04px;text-align:center}
 /*# sourceMappingURL=main.min.css.map */

diff --git a/js/main.js b/js/main.js
@@ -300,6 +300,7 @@ var modal = {
 		$('#project-info').empty();
 		$('#project-cover').empty();
 		$('#project-images').empty();
+		$('#project-images').removeClass();
 		
 		if (project.info) {
 		
@@ -365,6 +366,9 @@ var modal = {
 		}
 		
 		if (project.images) {
+		
+			if (project.imageStyle)
+				$('#project-images').addClass(project.imageStyle);
 			
 			for (var i = 0; i < project.images.length; i++) {
 				

diff --git a/sass/_grid.scss b/sass/_grid.scss
@@ -6,7 +6,7 @@
 
 .grid-sizer,
 .grid-item {
-	width: 33.333%;
+	width: 25%;
 		
 	@media #{$screen-small} {
 		width: 100%;
@@ -87,14 +87,10 @@ $overlay-opacity: 0.9;
 }
 
 .grid-item.big {
-	width: 66.666%;
+	width: 50%;
 		
 	@media #{$screen-small} {
 		width: 100%;
-	}
-		
-	@media #{$screen-medium} {
-		width: 50%;
 	}
 }
 

diff --git a/index.html b/index.html
@@ -117,7 +117,7 @@
 
 				<div class="wrap animate" data-animation="fadeInUp">
 
-					<h1>My work</h1>
+					<h1>Recent work</h1>
 
 					<div class="categories">
 						<input data-category="1" id="button-front-end" class="button" type="button" value="Front end">

diff --git a/sass/main.scss b/sass/main.scss
@@ -737,6 +737,10 @@ body.blue {
 				margin-bottom: 0;
 			}
 		}
+
+		#project-images.no-shadow img {
+			@include box-shadow(none);
+		}
 	}
 }
 
